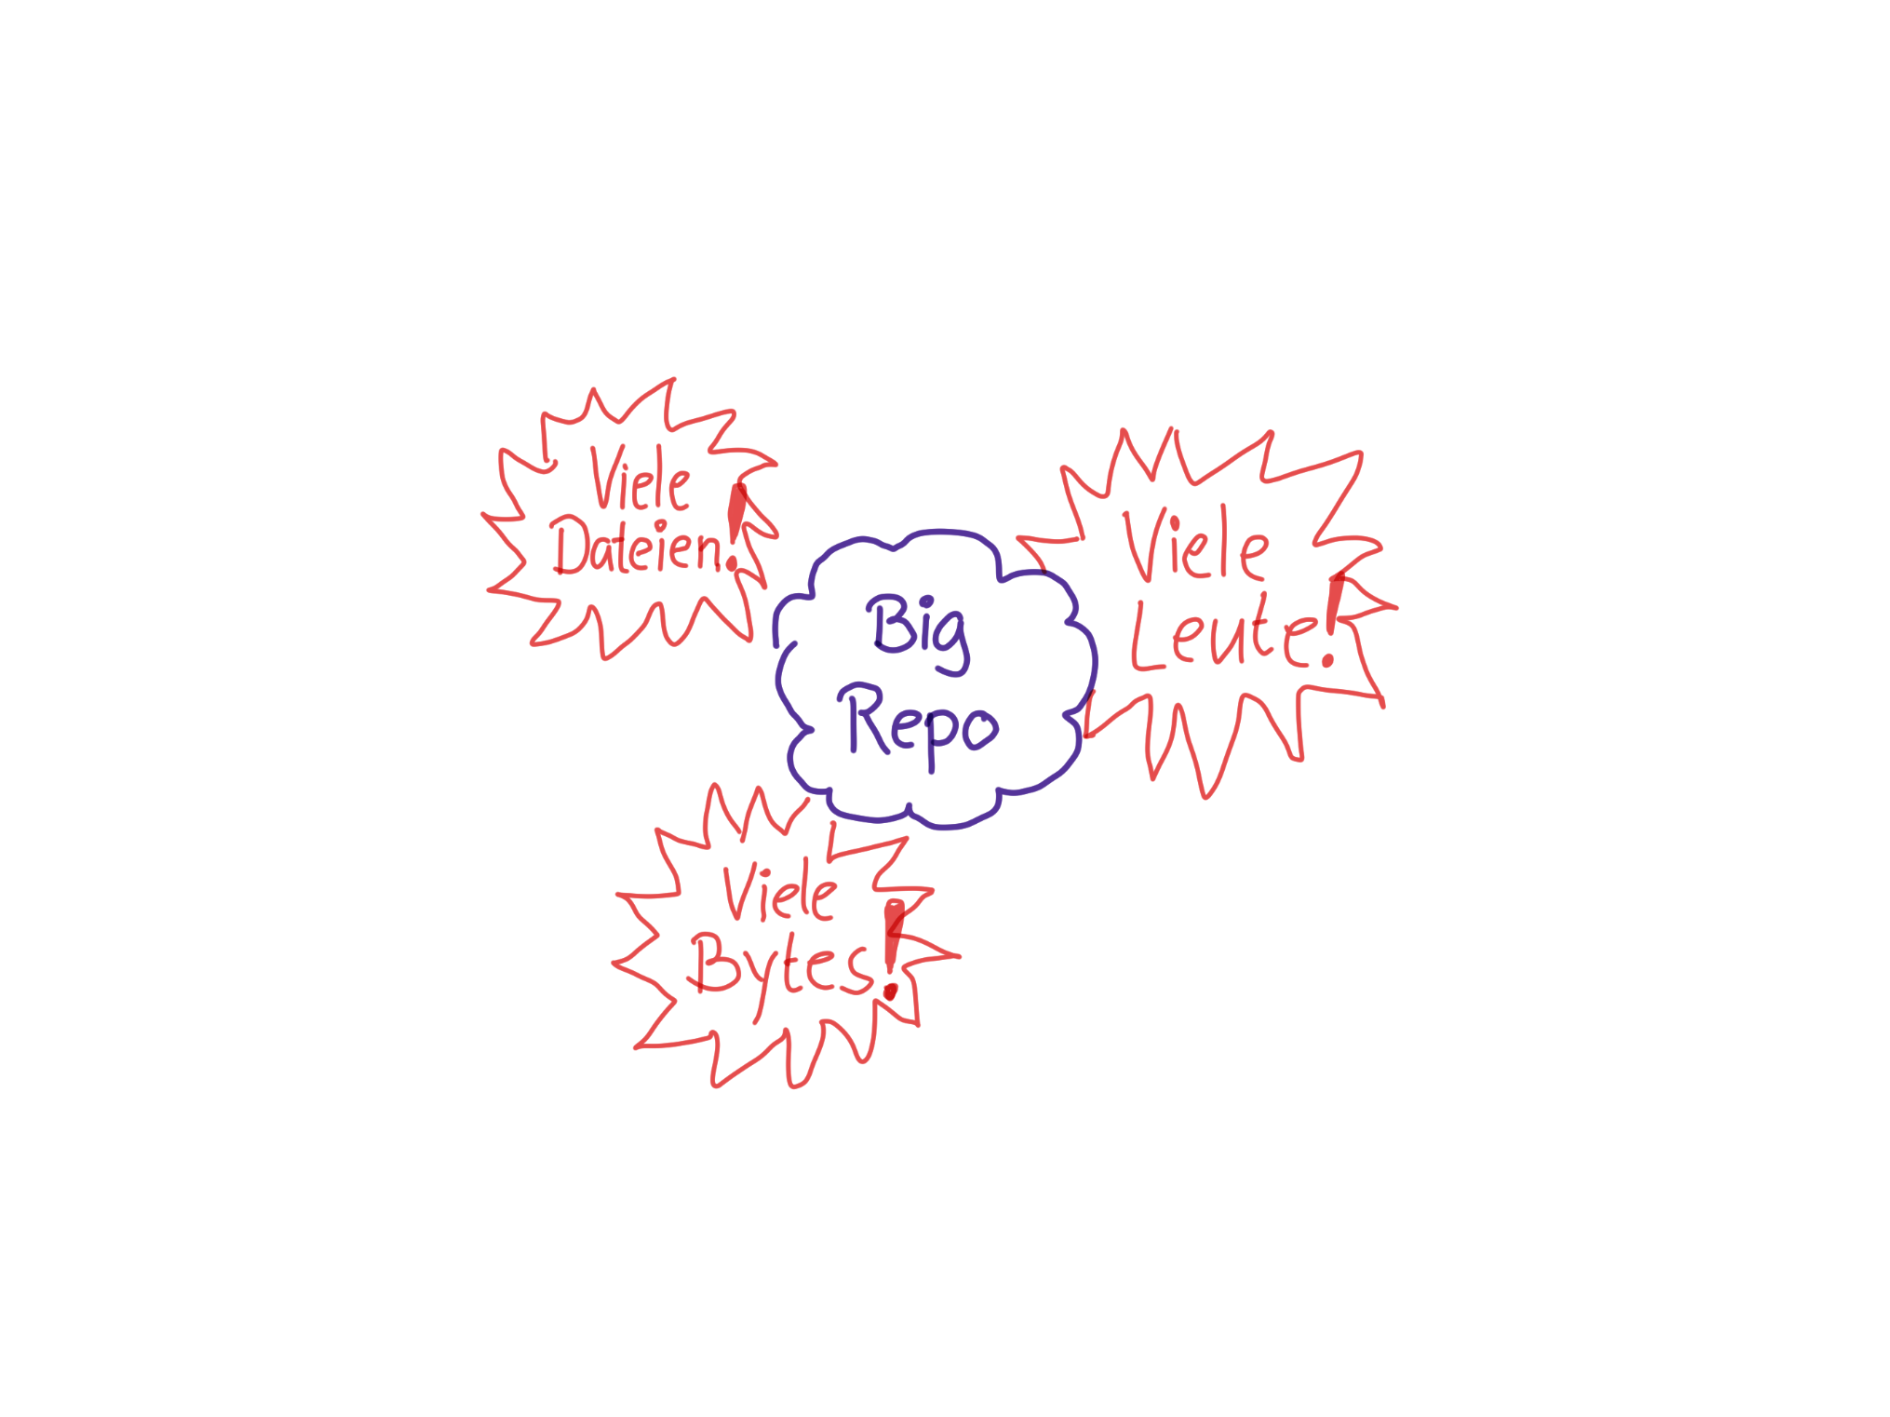
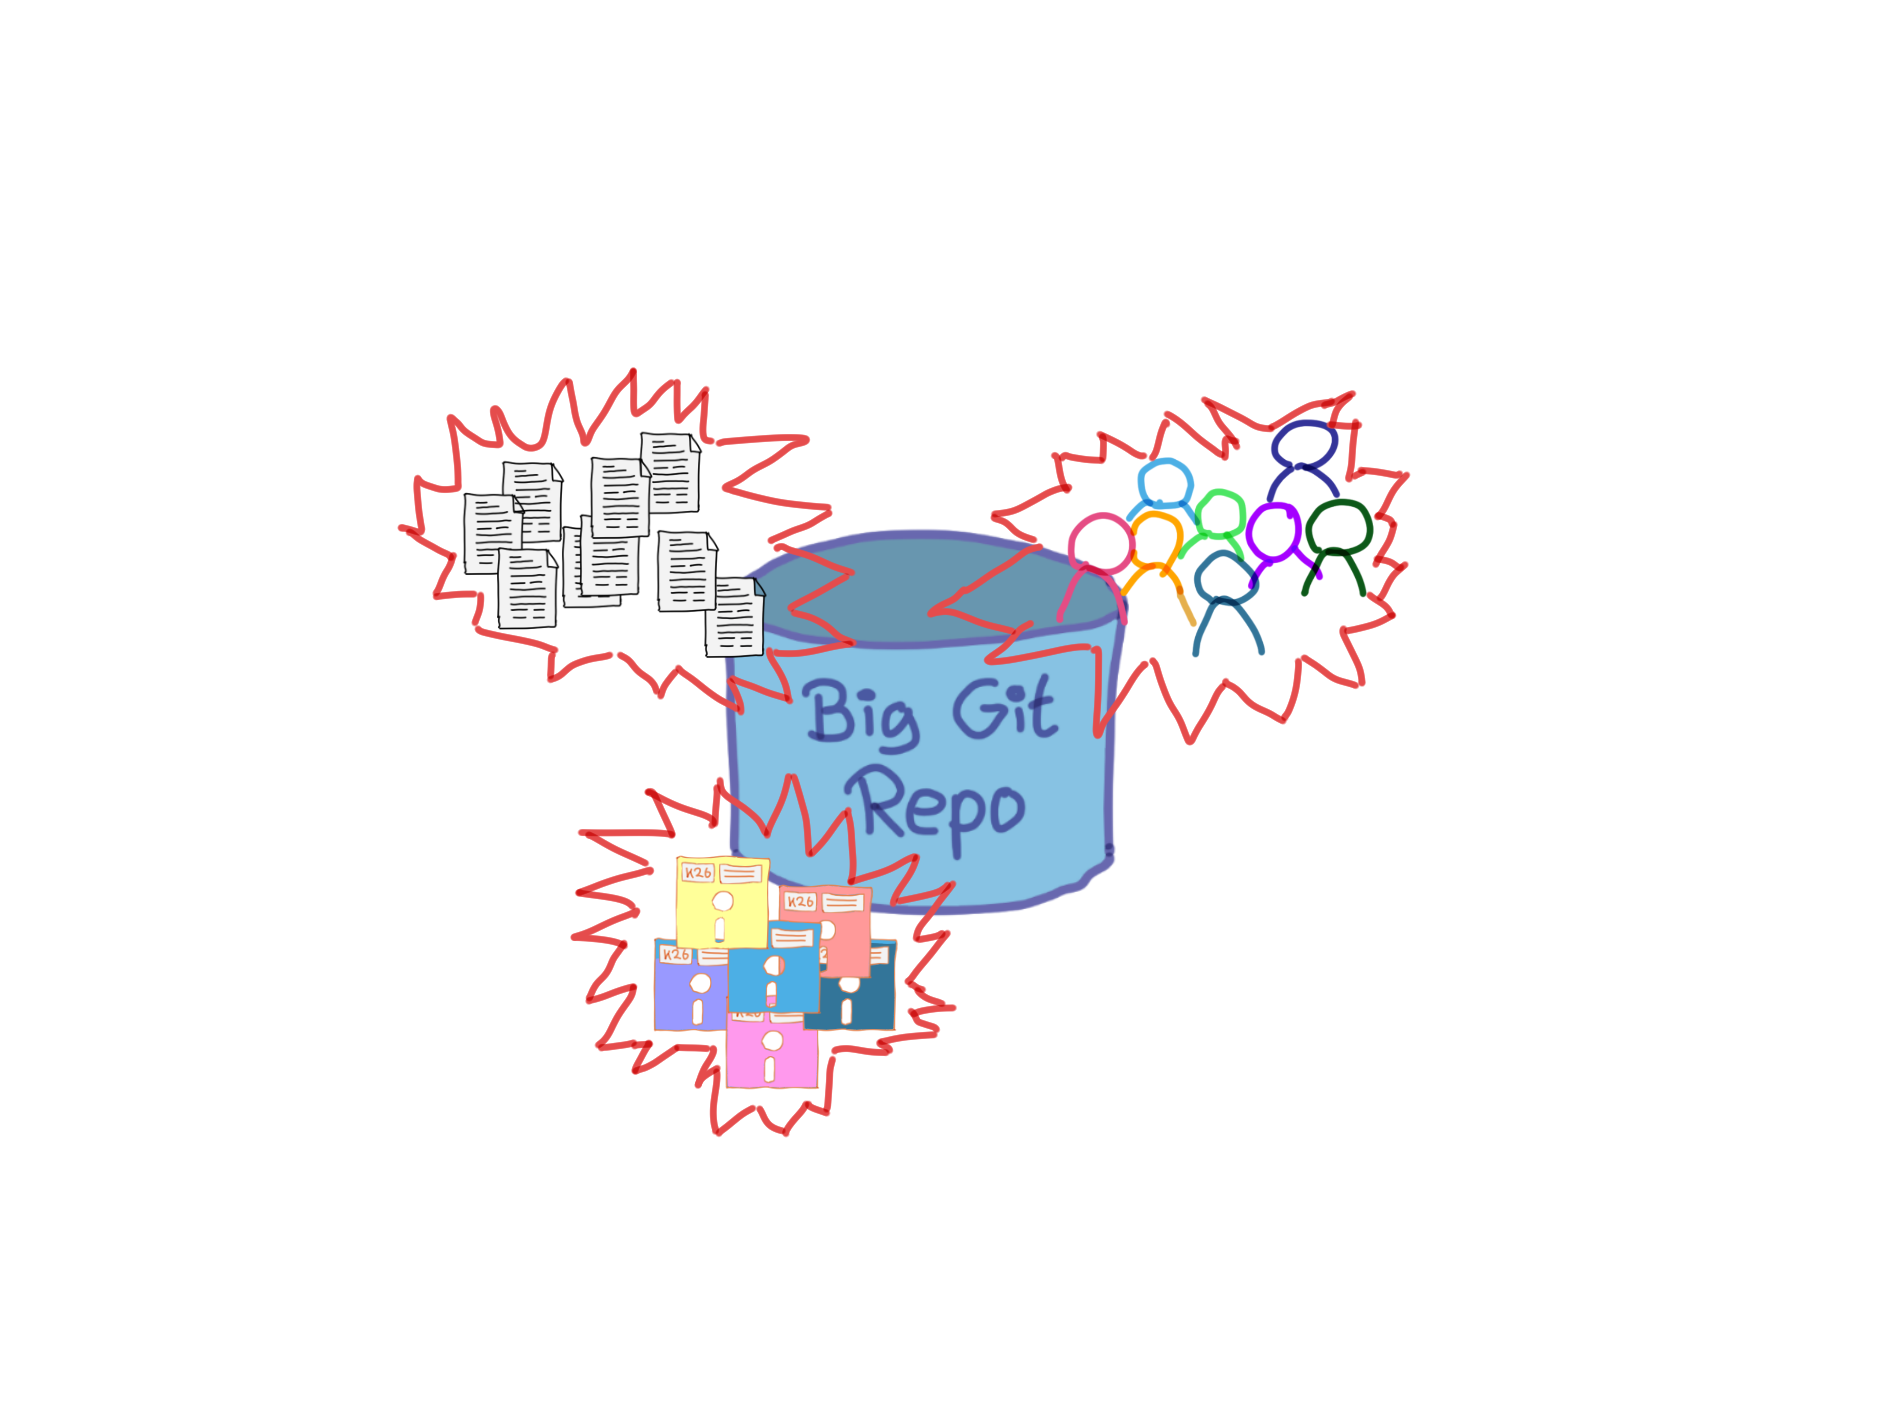
Update the bilders.

Changed region(s): [[0.2185, 0.2484, 0.7492, 0.8073]]

diff --git a/slides/2018-11-15-size-does-matter/09/fragen.md b/slides/2018-11-15-size-does-matter/09/fragen.md
@@ -1,4 +1,4 @@
-<!-- .slide: data-background-image="07/ueberblick.png"-->
+<!-- .slide: data-background-image="07/ueberblick-loesungen.png"-->
 <!-- .slide: data-background-size="70%" -->
 
 # Fragen?

diff --git a/slides/2018-11-15-size-does-matter/07/ueberblick-loesungen.md b/slides/2018-11-15-size-does-matter/07/ueberblick-loesungen.md
@@ -1,1 +1,1 @@
-<img src="07/ueberblick.png" width="90%" style="border: 2px; box-shadow: none;">
+<img src="07/ueberblick-loesungen.png" width="90%" style="border: 2px; box-shadow: none;">

diff --git a/slides/2018-11-15-size-does-matter/01/monorepos.md b/slides/2018-11-15-size-does-matter/01/monorepos.md
@@ -1,3 +1,6 @@
+<!-- .slide: data-background-image="01/monorepo.png" -->
+
+
 # MONOREPO
 
 
